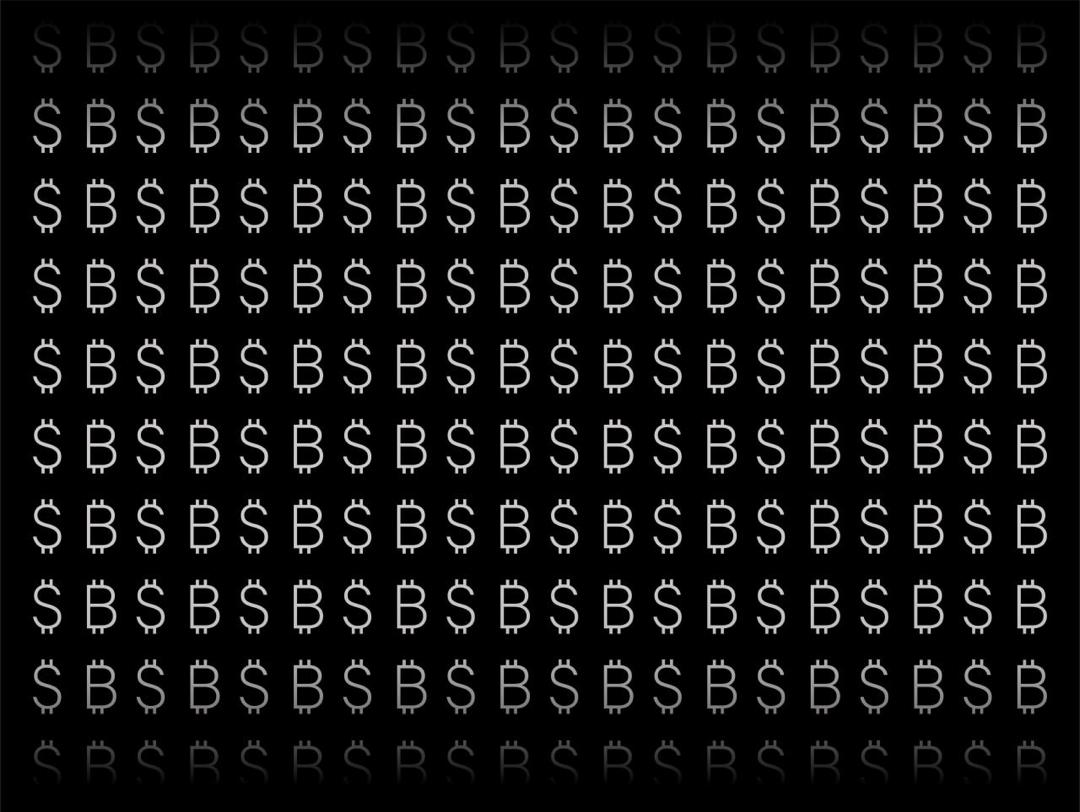
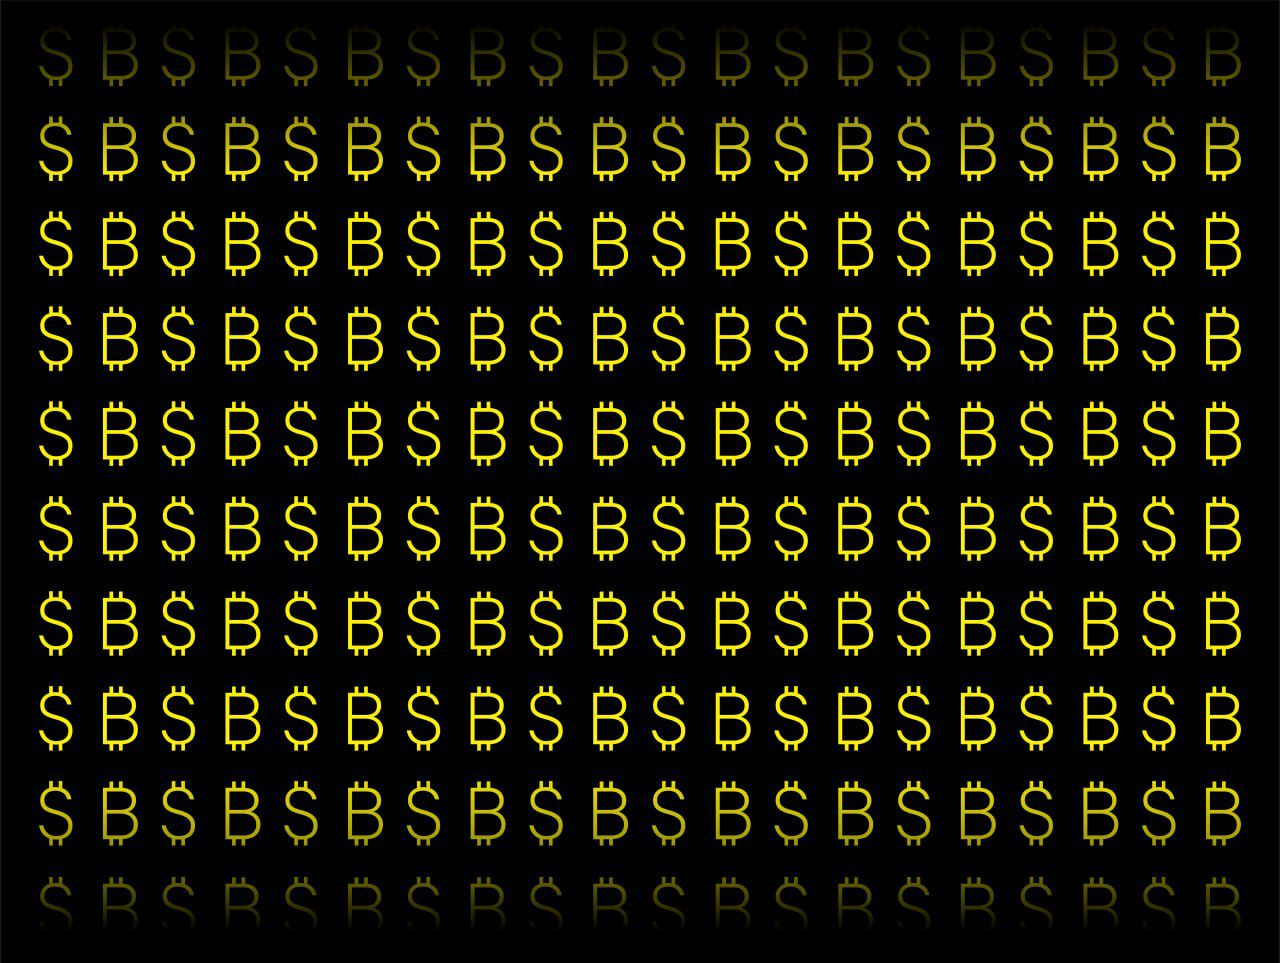
changed bg image

diff --git a/src/styles/home.scss b/src/styles/home.scss
@@ -847,7 +847,7 @@
 @media only screen and (min-width:480px) and (max-width: 768px){
     .home {
         .landing-page {
-            background-image: url('../../public/images/l-2.png');
+            background-image: url('../../public/images/l-2-ph.png');
             height: calc(100vh - 70px);
             gap: 20px;
             .description {
@@ -991,7 +991,7 @@
 @media only screen and (min-width:370px) and (max-width: 480px){
     .home {
         .landing-page {
-            background-image: url('../../public/images/l-2.png');
+            background-image: url('../../public/images/l-2-ph.png');
             height: calc(100vh - 70px);
             gap: 20px;
             .description {
@@ -1135,7 +1135,7 @@
 @media only screen and (max-width:370px){
     .home {
         .landing-page {
-            background-image: url('../../public/images/l-2.png');
+            background-image: url('../../public/images/l-2-ph.png');
             height: calc(100vh - 70px);
             gap: 20px;
             .description {
